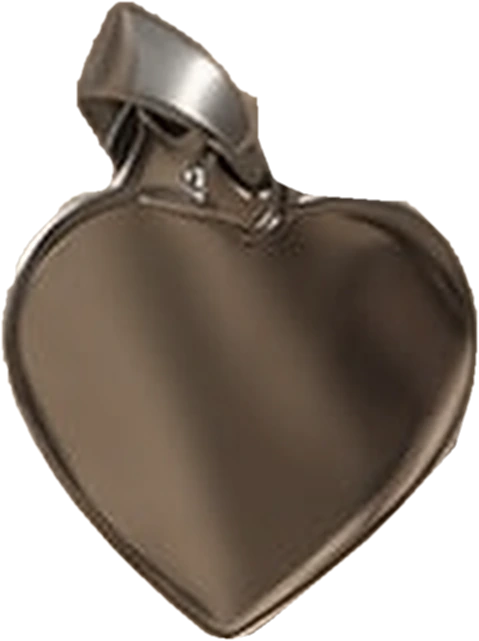
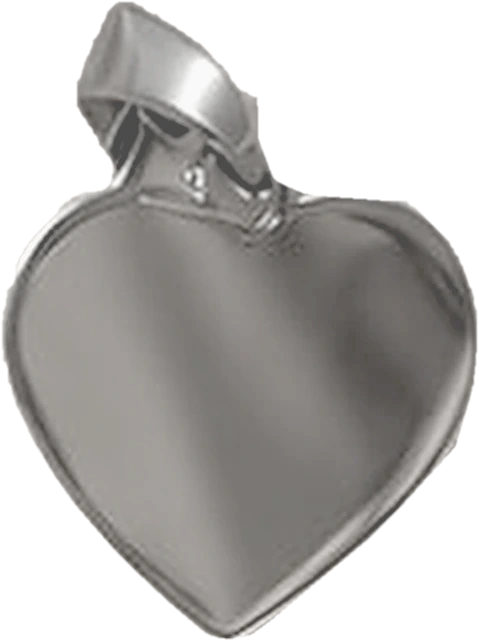
sanzo-web: grabado de la chapita como el real (oscuro sobre acero), su carita u otra imagen con vista previa
Claude-Session: https://claude.ai/code/session_01P6hnxyPJoCWf1hADAnftqP

diff --git a/sanzo-web/components/carrito/OfertaChapita.tsx b/sanzo-web/components/carrito/OfertaChapita.tsx
@@ -5,6 +5,7 @@ import { useEffect, useId, useRef, useState } from "react";
 import { chapita, ofertaChapita as oferta } from "@/data/products";
 import { letrasChapita, tipoChapita, textoGrabado, validarGrabado, type ErroresGrabado } from "@/lib/chapita";
 import { familia } from "@/lib/fuentes";
+import { aGrabadoLaser } from "@/lib/laser";
 import { formatearPrecio } from "@/lib/formato";
 import { IconoCerrar } from "../Iconos";
 
@@ -29,7 +30,11 @@ export function OfertaChapita({ abierta, onSumar, onNo, modo = "oferta" }: Props
   const id = useId();
   const [paso, setPaso] = useState<"cartel" | "personalizar">("cartel");
   const [tipo, setTipo] = useState(oferta.tipos[0]?.id ?? "");
-  const [foto, setFoto] = useState(false);
+  // Imagen grabada: ninguna, la cara de su perro u otra. La que suben es solo para la vista previa (la original llega por WhatsApp).
+  const [imagenTipo, setImagenTipo] = useState<"" | "carita" | "otra">("");
+  const [vistaImagen, setVistaImagen] = useState<{ src: string; proporcion: number } | null>(null);
+  const [procesando, setProcesando] = useState(false);
+  const foto = imagenTipo === "carita";
   const [nombre, setNombre] = useState("");
   const [telefono, setTelefono] = useState("");
   const [letra, setLetra] = useState(letrasChapita[0]?.id ?? "jost");
@@ -52,7 +57,7 @@ export function OfertaChapita({ abierta, onSumar, onNo, modo = "oferta" }: Props
 
   /** Revisa lo que hay que grabar; si falta algo, vuelve a ese paso y marca el campo. */
   function revisar() {
-    const e = validarGrabado({ tipo, foto, nombre, telefono });
+    const e = validarGrabado({ tipo, foto, imagen: imagenTipo === "otra", nombre, telefono });
     setErrores(e);
     const campo = Object.keys(e)[0];
     if (!campo) return true;
@@ -69,7 +74,21 @@ export function OfertaChapita({ abierta, onSumar, onNo, modo = "oferta" }: Props
 
   function sumar() {
     if (!revisar()) return;
-    onSumar(textoGrabado({ tipo, foto, nombre, telefono, letra }));
+    onSumar(textoGrabado({ tipo, foto, imagen: imagenTipo === "otra", nombre, telefono, letra }));
+  }
+
+  /** Cualquier foto → cómo quedaría grabada (en el navegador, al instante). */
+  async function verImagen(archivo?: File) {
+    if (!archivo) return;
+    setProcesando(true);
+    try {
+      const g = await aGrabadoLaser(archivo);
+      setVistaImagen({ src: g.grabado, proporcion: g.proporcion });
+    } catch {
+      setVistaImagen(null);
+    } finally {
+      setProcesando(false);
+    }
   }
 
   const elegido = tipoChapita(tipo) ?? oferta.tipos[0];
@@ -130,7 +149,7 @@ export function OfertaChapita({ abierta, onSumar, onNo, modo = "oferta" }: Props
           {/* La vista queda fija arriba para ver los cambios mientras elige. */}
           <div className="shrink-0 bg-lino px-4 pt-4 sm:row-span-2 sm:flex sm:flex-col sm:justify-center sm:px-8 sm:pt-6">
             <div className="flex h-[30dvh] items-center justify-center [--alto-vista:30dvh] sm:h-[52vh] sm:[--alto-vista:52vh]">
-              <VistaChapita tipo={tipo} foto={foto} nombre={nombre} telefono={telefono} letra={letra} />
+              <VistaChapita tipo={tipo} imagenTipo={imagenTipo} vistaImagen={vistaImagen} nombre={nombre} telefono={telefono} letra={letra} />
             </div>
             <p className="pb-3 pt-3 text-center text-[11px] text-tinta/60">{elegido.texto} · grabado láser</p>
           </div>
@@ -192,25 +211,51 @@ export function OfertaChapita({ abierta, onSumar, onNo, modo = "oferta" }: Props
 
               {PASOS[pasoGrabado] === "Qué grabamos" && (
                 <>
-                  <label className="flex cursor-pointer items-start gap-3 border border-tinta/20 p-3.5 transition-colors has-[:checked]:border-tinta has-[:checked]:bg-lino/60">
-                    <input
-                      type="checkbox"
-                      checked={foto}
-                      onChange={(e) => {
-                        setFoto(e.target.checked);
-                        setErrores({});
-                      }}
-                      className="mt-0.5 size-5 shrink-0 accent-tinta"
-                    />
-                    <span>
-                      <span className="block text-[15px]">{oferta.foto.texto}</span>
-                      <span className="mt-0.5 block text-[13px] leading-snug text-tinta/60">{oferta.foto.detalle}</span>
-                    </span>
-                  </label>
+                  <fieldset>
+                    <legend className="eyebrow mb-3">¿Lleva imagen?</legend>
+                    <div className="grid grid-cols-3 gap-2">
+                      {(
+                        [
+                          ["", oferta.foto.opciones.ninguna],
+                          ["carita", oferta.foto.opciones.carita],
+                          ["otra", oferta.foto.opciones.otra],
+                        ] as const
+                      ).map(([v, texto]) => (
+                        <button
+                          key={v}
+                          type="button"
+                          onClick={() => {
+                            setImagenTipo(v);
+                            setErrores({});
+                          }}
+                          className={`h-11 border text-[10px] uppercase tracking-[0.12em] transition-colors ${imagenTipo === v ? "border-tinta bg-tinta text-crema" : "border-tinta/20"}`}
+                        >
+                          {texto}
+                        </button>
+                      ))}
+                    </div>
+                    {imagenTipo && (
+                      <div className="mt-3 animate-entrada">
+                        <p className="text-[12px] leading-relaxed text-tinta/70">{imagenTipo === "carita" ? oferta.foto.detalleCarita : oferta.foto.detalleOtra}</p>
+                        <label className="btn mt-3 flex w-full cursor-pointer items-center justify-center border border-dashed border-tinta/60 py-3 text-[11px] text-tinta">
+                          {procesando ? "Preparando…" : vistaImagen ? "Cambiar foto" : oferta.foto.elegir}
+                          <input
+                            type="file"
+                            accept="image/*"
+                            className="sr-only"
+                            onChange={(e) => {
+                              verImagen(e.target.files?.[0]);
+                              e.target.value = "";
+                            }}
+                          />
+                        </label>
+                      </div>
+                    )}
+                  </fieldset>
 
                   <div>
                     <p className="mb-3 text-[13px] text-tinta/65">
-                      {foto ? "Si querés, sumale su nombre y tu teléfono." : "Grabá su nombre, tu teléfono o los dos."}
+                      {imagenTipo ? "Si querés, sumale su nombre y tu teléfono." : "Grabá su nombre, tu teléfono o los dos."}
                     </p>
                     <label htmlFor={`${id}-nombre`} className="etiqueta flex justify-between">
                       <span>Su nombre</span>
@@ -330,7 +375,21 @@ export function OfertaChapita({ abierta, onSumar, onNo, modo = "oferta" }: Props
  * (partes del ancho y alto del recorte; cqw = parte del ancho de la vista). Grabado láser sobre acero: gris
  * oscuro mate, apenas hundido.
  */
-function VistaChapita({ tipo, foto, nombre, telefono, letra }: { tipo: string; foto: boolean; nombre: string; telefono: string; letra: string }) {
+function VistaChapita({
+  tipo,
+  imagenTipo,
+  vistaImagen,
+  nombre,
+  telefono,
+  letra,
+}: {
+  tipo: string;
+  imagenTipo: "" | "carita" | "otra";
+  vistaImagen: { src: string; proporcion: number } | null;
+  nombre: string;
+  telefono: string;
+  letra: string;
+}) {
   const t = tipoChapita(tipo) ?? oferta.tipos[0];
   const { familia: fam, peso } = familia(letra);
   const mayusculas = letrasChapita.find((f) => f.id === letra)?.mayusculas;
@@ -338,6 +397,9 @@ function VistaChapita({ tipo, foto, nombre, telefono, letra }: { tipo: string; f
   const z = t.zonaRecorte;
   const n = nombre.trim().replace(/\s+/g, " ");
   const tel = telefono.trim().replace(/\s+/g, " ");
+  // Imagen en la vista: la que subió (pasada a grabado) o, si eligió "Su carita" y no subió nada, la de ejemplo.
+  const img = vistaImagen ?? (imagenTipo === "carita" ? { src: oferta.foto.ejemplo, proporcion: oferta.foto.ejemploTam.ancho / oferta.foto.ejemploTam.alto } : null);
+  const foto = !!imagenTipo && !!img;
   const vacio = !foto && !n && !tel;
   // Sin nada elegido, un ejemplo apagado para que se entienda dónde va.
   const lineaNombre = vacio ? "Kala" : n;
@@ -346,9 +408,8 @@ function VistaChapita({ tipo, foto, nombre, telefono, letra }: { tipo: string; f
 
   // Todo en partes del ancho del recorte (1 = todo el ancho).
   const zAlto = (z.alto * alto) / ancho;
-  const ej = oferta.foto.ejemploTam;
   const altoFoto = foto ? zAlto * (hayTexto ? 0.58 : 0.95) : 0;
-  const anchoFoto = Math.min(z.ancho * 0.8, (altoFoto * ej.ancho) / ej.alto);
+  const anchoFoto = img ? Math.min(z.ancho * 0.85, altoFoto * img.proporcion) : 0;
   const altoTexto = foto ? zAlto * 0.4 : zAlto;
   const tamNombre = Math.min(altoTexto * (lineaTel ? 0.42 : 0.55), z.ancho / (Math.max(lineaNombre.length, 3) * 0.6));
   const tamTel = Math.min(altoTexto * (lineaNombre ? 0.2 : 0.3), z.ancho / (Math.max(lineaTel.length, 6) * 0.56));
@@ -373,17 +434,31 @@ function VistaChapita({ tipo, foto, nombre, telefono, letra }: { tipo: string; f
           top: `${z.y * 100}%`,
           width: cqw(z.ancho),
           gap: cqw(zAlto * 0.04),
-          color: "rgba(48, 43, 39, 0.82)",
-          textShadow: "0 1px 0 rgba(255,255,255,0.28), 0 -0.5px 0 rgba(0,0,0,0.25)",
+          // Grabado láser sobre acero: gris casi negro, mate y nítido (como las chapitas reales).
+          color: "rgba(30, 28, 27, 0.88)",
+          textShadow: "0 0 0.4px rgba(30,28,27,0.6)",
           opacity: vacio ? 0.45 : 1,
         }}
       >
-        {foto && (
-          // eslint-disable-next-line @next/next/no-img-element
-          <img
-            src={oferta.foto.ejemplo}
-            alt="Ejemplo: la foto de tu perro grabada"
-            style={{ width: cqw(anchoFoto), opacity: 0.85, filter: "invert(1) brightness(0.35)" }}
+        {foto && img && (
+          // El grabado es blanco con transparencia: se pinta del gris del láser con una máscara.
+          <span
+            role="img"
+            aria-label={vistaImagen ? "Tu imagen grabada" : "Ejemplo: la cara de tu perro grabada"}
+            className="block"
+            style={{
+              width: cqw(anchoFoto),
+              aspectRatio: `${img.proporcion}`,
+              backgroundColor: "rgba(30, 28, 27, 0.88)",
+              WebkitMaskImage: `url(${img.src})`,
+              maskImage: `url(${img.src})`,
+              WebkitMaskSize: "contain",
+              maskSize: "contain",
+              WebkitMaskRepeat: "no-repeat",
+              maskRepeat: "no-repeat",
+              WebkitMaskPosition: "center",
+              maskPosition: "center",
+            }}
           />
         )}
         {lineaNombre && (

diff --git a/sanzo-web/lib/chapita.ts b/sanzo-web/lib/chapita.ts
@@ -1,10 +1,12 @@
 import { chapita, ofertaChapita, personalizacion, type Producto } from "@/data/products";
 
-/** Lo que el cliente pidió grabar en la chapita: la foto de su perro, el nombre, el teléfono (al menos uno). */
+/** Lo que el cliente pidió grabar en la chapita: la cara de su perro u otra imagen, el nombre, el teléfono (al menos uno). */
 export interface Grabado {
   tipo: string;
-  /** Nos manda la foto por WhatsApp después del pedido y la grabamos. */
+  /** La cara de su perro: nos manda la foto por WhatsApp después del pedido y la grabamos. */
   foto: boolean;
+  /** Otra imagen (un dibujo, un logo…): también nos la manda por WhatsApp. No va junto con `foto`. */
+  imagen?: boolean;
   nombre: string;
   telefono: string;
   /** id de una letra de `personalizacion.fuentes` (la misma lista que los parches, sin "Tu letra"). Vacío = la de la marca. */
@@ -20,6 +22,8 @@ const SEP = " · ";
 const TEL = "Tel. ";
 /** Marca de la foto en la opción: "Circular · Con su foto · Coco". */
 const FOTO = "Con su foto";
+/** Marca de otra imagen: "Placa · Con tu imagen · Tel. 11 2345 6789". */
+const IMAGEN = "Con tu imagen";
 /** Letra elegida, al final de la opción: "Placa · Coco · Letra Clásica". La de la marca no se escribe. */
 const LETRA = "Letra ";
 
@@ -46,8 +50,8 @@ export function validarGrabado(g: Grabado): ErroresGrabado {
   }
   const nombre = limpiarNombre(g.nombre);
   const tel = limpiarTelefono(g.telefono);
-  if (!g.foto && !nombre && !tel) {
-    e.nombre = "Elegí la foto, poné su nombre o tu teléfono.";
+  if (!g.foto && !g.imagen && !nombre && !tel) {
+    e.nombre = "Elegí una imagen, poné su nombre o tu teléfono.";
     return e;
   }
   if (nombre.length > ofertaChapita.maxNombre) e.nombre = `Hasta ${ofertaChapita.maxNombre} letras.`;
@@ -64,7 +68,7 @@ export function textoGrabado(g: Grabado) {
   const nombre = limpiarNombre(g.nombre);
   const tel = limpiarTelefono(g.telefono);
   const letra = g.letra && g.letra !== LETRA_BASE ? letrasChapita.find((f) => f.id === g.letra) : undefined;
-  return [g.tipo, g.foto && FOTO, nombre, tel && `${TEL}${tel}`, letra && `${LETRA}${letra.nombre}`].filter(Boolean).join(SEP);
+  return [g.tipo, g.foto ? FOTO : g.imagen && IMAGEN, nombre, tel && `${TEL}${tel}`, letra && `${LETRA}${letra.nombre}`].filter(Boolean).join(SEP);
 }
 
 /** Revisa la opción que llega del carrito (o del pedido). Devuelve el texto limpio o null si no sirve. */
@@ -78,12 +82,13 @@ export function normalizarOpcionChapita(opcion?: string): string | null {
   if (conLetra && !letra) return null;
   const partes = conLetra ? todas.slice(0, -1) : todas;
   const foto = partes[0] === FOTO;
-  const resto = foto ? partes.slice(1) : partes;
-  if (!tipoChapita(tipo) || resto.length > 2 || (!foto && resto.length === 0)) return null;
+  const imagen = partes[0] === IMAGEN;
+  const resto = foto || imagen ? partes.slice(1) : partes;
+  if (!tipoChapita(tipo) || resto.length > 2 || (!foto && !imagen && resto.length === 0)) return null;
   const tels = resto.filter((p) => p.startsWith(TEL));
   const nombres = resto.filter((p) => !p.startsWith(TEL));
   if (tels.length > 1 || nombres.length > 1) return null;
-  const g: Grabado = { tipo, foto, nombre: nombres[0] ?? "", telefono: tels[0]?.slice(TEL.length) ?? "", letra: letra?.id };
+  const g: Grabado = { tipo, foto, imagen, nombre: nombres[0] ?? "", telefono: tels[0]?.slice(TEL.length) ?? "", letra: letra?.id };
   if (Object.keys(validarGrabado(g)).length > 0) return null;
   return textoGrabado(g);
 }
@@ -107,9 +112,9 @@ export function normalizarOpcionComboChapita(combo: Producto, opcion?: string): 
   return grabado ? `${talle}${SEP}${grabado}` : null;
 }
 
-/** Lleva una chapita con la foto de su perro (hay que pedírsela por WhatsApp). */
+/** Lleva una chapita con la cara de su perro u otra imagen (hay que pedírsela por WhatsApp). */
 export function chapitaConFoto(producto: Producto, opcion?: string) {
-  return llevaChapita(producto) && !!opcion && opcion.split(SEP).some((p) => p.trim() === FOTO);
+  return llevaChapita(producto) && !!opcion && opcion.split(SEP).some((p) => p.trim() === FOTO || p.trim() === IMAGEN);
 }
 
 /** Foto para la línea del carrito/checkout: en la chapita, la forma elegida; en el resto, la primera foto. */

diff --git a/sanzo-web/data/products.ts b/sanzo-web/data/products.ts
@@ -816,10 +816,15 @@ export const ofertaChapita = {
   foto: {
     texto: "Grabar la foto de tu perro",
     detalle: "Después de comprar nos la mandás por WhatsApp y la pasamos a grabado láser.",
+    /** Botones de "¿Lleva imagen?": ninguna, la cara de su perro u otra imagen (dibujo, logo…). */
+    opciones: { ninguna: "Sin imagen", carita: "Su carita", otra: "Otra imagen" },
+    detalleCarita: "Subí una foto de su cara para ver cómo queda. Después de comprar nos la mandás por WhatsApp y la pasamos a grabado láser.",
+    detalleOtra: "Un dibujo, un logo, lo que quieras. Subila para ver cómo queda y después de comprar nos la mandás por WhatsApp.",
+    elegir: "Subir foto para ver cómo queda",
     ejemplo: "/productos/chapitas/perro-grabado.png",
     ejemploTam: { ancho: 336, alto: 263 },
     /** Mensaje que se arma en /gracias para mandar la foto ({numero} = número de pedido). */
-    mensajeWhatsapp: "Hola sanzo! Les mando la foto de mi perro para grabar en la chapita del pedido {numero}.",
+    mensajeWhatsapp: "Hola sanzo! Les mando la imagen para grabar en la chapita del pedido {numero}.",
   },
   /** Medida de las fotos de las chapitas (todas iguales), en píxeles. */
   fotoTam: { ancho: 541, alto: 722 },

diff --git a/sanzo-web/MEJORAS.md b/sanzo-web/MEJORAS.md
@@ -389,6 +389,7 @@ Parche de cuerina recortado y grabado con láser, pegado (liso). Todo editable e
 - **Chapita en Individuales** (`vitrinaIndividuales`): tarjeta propia a $8.000. "Agregar" abre directo el grabado.
 - **Grabado de la chapita por pasos**, como el de los parches: 1 · Forma → 2 · Qué grabamos → 3 · Letra (las mismas letras de los parches, menos "Tu letra"). La letra va en la opción: "Huesito · Coco · Letra Cursiva" (la Moderna no se escribe, así los pedidos viejos siguen valiendo).
 - **Editor de la chapita con el mismo formato que el de los parches** (Santi: "sigue horrible"): pantalla completa, título y X arriba, la chapita **sin fondo sobre lino** con el grabado en vivo (gris oscuro mate, como láser sobre acero), pasos tocables, Atrás / Siguiente abajo. Las 4 formas son las de la foto del Combo Identidad, recortadas sin fondo: `public/productos/chapitas/recortes/*.webp` (`recorte` y `zonaRecorte` en cada `ofertaChapita.tipos`). El cartel del principio (oferta) queda igual. En el carrito y el checkout la chapita se ve con su recorte entero.
+- **Grabado como el real** (fotos de Santi): gris casi negro, mate y nítido sobre acero claro. Recortes aclarados a acero. "¿Lleva imagen?": Sin imagen / **Su carita** / **Otra imagen**; puede subir una foto para ver cómo queda (se pasa a grabado en el navegador, `lib/laser.ts`) y la original la manda por WhatsApp después del pedido (botón en `/gracias`, también para "Con tu imagen"). Letra a elección, nombre y teléfono.
 - [ ] Las fotos de las chapitas salen de una foto chica (~150 px cada una, agrandadas): para que se vean nítidas, sacar una foto de las 4 sobre fondo liso y de cerca.
 
 ### Falta
